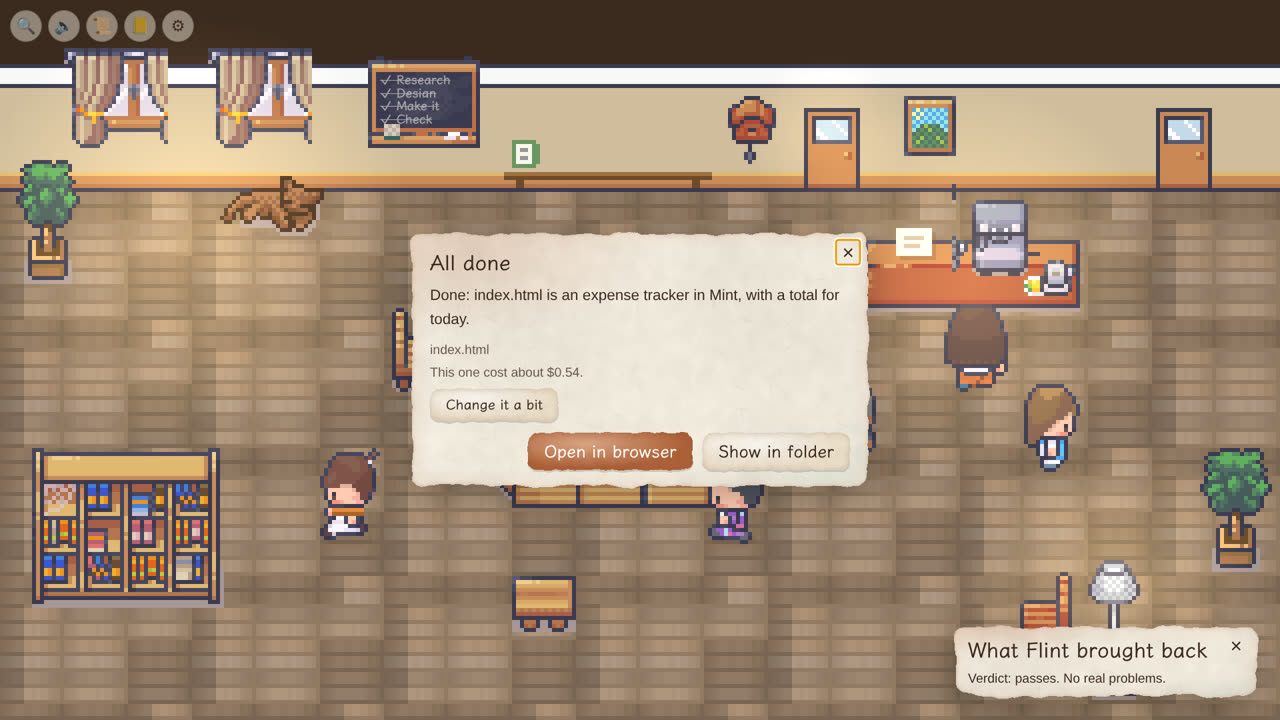
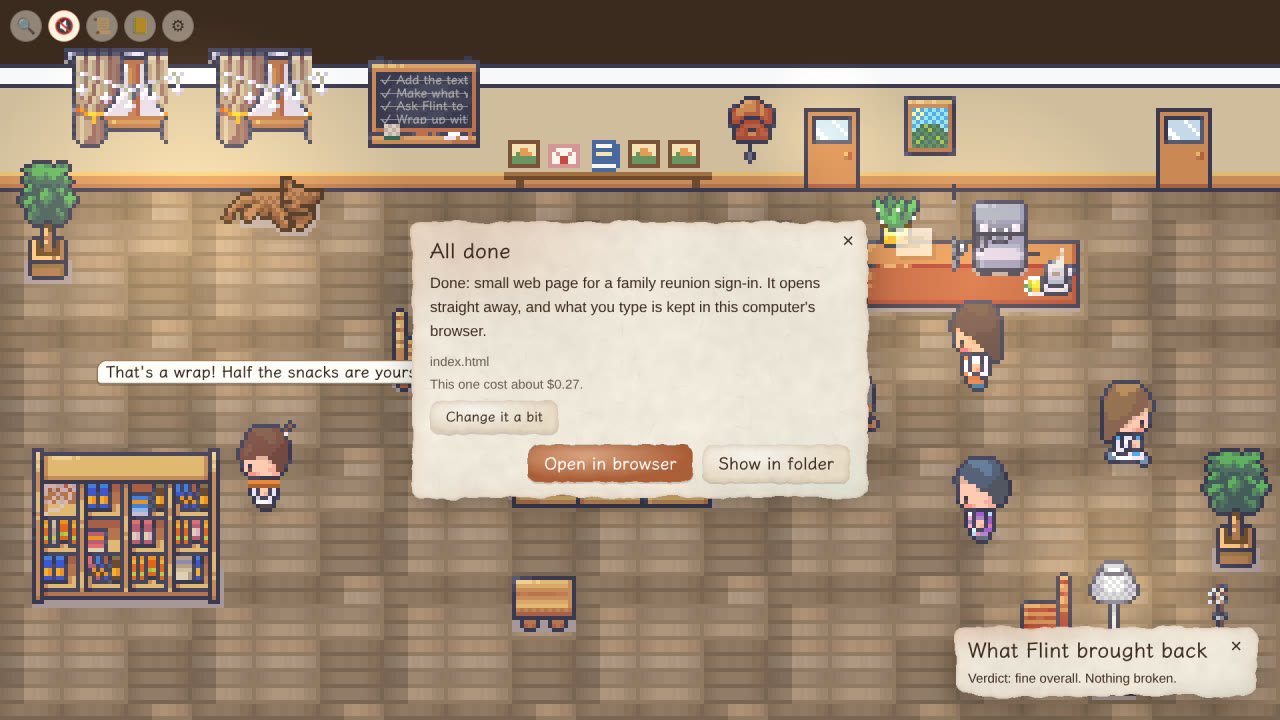
Site for 0.8.0: the plan on the blackboard, handing over files, furnishing, eight templates
New sections for the real plan on the blackboard, handing files to the shop and furnishing the
café and the study; the list of things to ask for now has all eight templates; every screenshot
is retaken from the latest build.

The pages are now generated: build.mjs writes them from content/*.json and the app's own legal
texts (node build.mjs --app <app repository>). The privacy note and terms come out unchanged.

diff --git a/index.html b/index.html
@@ -19,6 +19,6 @@ footer{border-top:1px solid var(--line);padding:22px 0 40px;color:var(--soft);fo
 <main class="wrap"><section class="hero"><h1>Lamplight Nook</h1><p>A cozy pixel shop where a small team does computer jobs for you, powered by Claude.</p><span class="buy soon">Coming soon to Microsoft Store</span><span class="price">US$9.99, one-time. Windows 10/11.</span></section>
 <img class="shot" src="img/en-05-result.jpg" alt="">
 <p class="intro">Hand a commission slip to the counter and the staff get to work. Wick plans the job, Clem runs out to look things up, Iris settles the colours and layout, Flint checks everything before it leaves the shop, and Chestnut the cat supervises. Behind the pixels it is Claude Code, Anthropic's AI agent, working in a folder on your PC, and every step shows up as life in the shop.</p>
-<section class="feats"><div class="feat"><img class="shot" src="img/en-01-order.jpg" alt=""><h3>Ask for real things</h3><p>A small web page, a researched summary, an edited copy of a document, a plan for a messy folder.</p></div><div class="feat"><img class="shot" src="img/en-02-work-5.jpg" alt=""><h3>Watch them work</h3><p>Errands, chalkboard notes and checks instead of logs.</p></div><div class="feat"><img class="shot" src="img/en-04-question.jpg" alt=""><h3>You stay in charge</h3><p>Wick asks before choices; risky steps wait for your OK. Ring the bell to add a request mid-job.</p></div><div class="feat"><img class="shot" src="img/en-06-notebook.jpg" alt=""><h3>It remembers you</h3><p>Past jobs, your choices and the snags you hit, kept only on your PC.</p></div><div class="feat"><img class="shot" src="img/en-07-garden.jpg" alt=""><h3>A shop that lives</h3><p>Weather and seasons from the calendar, holiday decorations, a back garden with Malt the dog and the hens, neighbours who drop in, and a look of your own.</p></div><div class="feat"><img class="shot" src="img/en-08-shelf.jpg" alt=""><h3>Change it again</h3><p>Finished work goes on the works shelf. Ask for another round any time; the last version is kept in case you want it back. The shop picks up a little more as the jobs add up.</p></div><div class="feat"><img class="shot" src="img/en-09-study.jpg" alt=""><h3>A study at home</h3><p>Prefer something quieter? Move the shop into a study with a sofa, a globe and a reading lamp. Everything you have gathered comes along.</p></div><div class="feat"><img class="shot" src="img/en-10-mini.jpg" alt=""><h3>Out of sight, still in touch</h3><p>Minimise the shop and a small window in the corner shows who is working and what on, and calls you when a question is waiting.</p></div></section>
+<section class="feats"><div class="feat"><img class="shot" src="img/en-01-order.jpg" alt=""><h3>Ask for real things</h3><p>A small web page, a researched summary, an edited copy of a document, a plan for a messy folder, a letter, a table, a plan for the weeks ahead, or an album of your photos.</p></div><div class="feat"><img class="shot" src="img/en-02-board.jpg" alt=""><h3>See how far along it is</h3><p>Wick chalks the real to-do list on the blackboard and ticks it off as the work goes, so you can tell at a glance what is done and how much is left.</p></div><div class="feat"><img class="shot" src="img/en-03-materials.jpg" alt=""><h3>Hand things over</h3><p>A screenshot, a spreadsheet, a draft to fix: drop it on the counter and Wick has it. The staff work on copies; your originals stay as they are.</p></div><div class="feat"><img class="shot" src="img/en-04-question.jpg" alt=""><h3>You stay in charge</h3><p>Wick asks before choices; risky steps wait for your OK. Ring the bell to add a request mid-job.</p></div><div class="feat"><img class="shot" src="img/en-06-notebook.jpg" alt=""><h3>It remembers you</h3><p>Past jobs, your choices and the snags you hit, kept only on your PC.</p></div><div class="feat"><img class="shot" src="img/en-07-garden.jpg" alt=""><h3>A shop that lives</h3><p>Weather and seasons from the calendar, holiday decorations, a back garden with Malt the dog and the hens, neighbours who drop in, and a look of your own.</p></div><div class="feat"><img class="shot" src="img/en-08-shelf.jpg" alt=""><h3>Change it again</h3><p>Finished work goes on the works shelf. Ask for another round any time; the last version is kept in case you want it back. The shop picks up a little more as the jobs add up.</p></div><div class="feat"><img class="shot" src="img/en-11-furnish.jpg" alt=""><h3>Make it yours</h3><p>Pick a wall colour, curtains and a rug. The café and the study each keep their own.</p></div><div class="feat"><img class="shot" src="img/en-09-study.jpg" alt=""><h3>A study at home</h3><p>Prefer something quieter? Move the shop into a study with a sofa, a globe and a reading lamp. Everything you have gathered comes along.</p></div><div class="feat"><img class="shot" src="img/en-10-mini.jpg" alt=""><h3>Out of sight, still in touch</h3><p>Minimise the shop and a small window in the corner shows who is working, which item of the plan is under way, and calls you when a question is waiting.</p></div></section>
 <section class="need"><h2>What you need</h2><ul><li>Claude Code on your PC (free; the app walks you through installing it).</li><li>Your own Anthropic API key. You pay Anthropic for what the staff use, usually well under a dollar for a small job. Every job shows its cost, and you can set a cap.</li><li>No account, no subscription, no telemetry. Not available where Anthropic does not offer its API, including mainland China and Hong Kong.</li></ul></section></main>
 <footer><div class="wrap"><a href="privacy.html">Privacy</a><a href="terms.html">Terms of use</a><a href="mailto:24kplo@gmail.com">Support</a><p>Pixel art by LimeZu. Music by Alex Morgan (CC BY 4.0). Claude is a trademark of Anthropic.</p></div></footer></body></html>

diff --git a/zh.html b/zh.html
@@ -19,6 +19,6 @@ footer{border-top:1px solid var(--line);padding:22px 0 40px;color:var(--soft);fo
 <main class="wrap"><section class="hero"><h1>小灯屋</h1><p>一间温馨的像素小店，店员们用 Claude 帮你把电脑上的活儿做好。</p><span class="buy soon">即将上架 Microsoft Store</span><span class="price">9.99 美元买断，Windows 10/11。</span></section>
 <img class="shot" src="img/zh-05-result.jpg" alt="">
 <p class="intro">在柜台递一张委托单，店员们就开工了。阿灯接单定计划，小橘跑腿查资料，青黛先定配色和布局，老石在成品出店前把关，店猫栗子负责监工。像素背后是 Anthropic 的 AI 代理 Claude Code，它在你电脑上的一个文件夹里干活，每一步都变成店里的日常。</p>
-<section class="feats"><div class="feat"><img class="shot" src="img/zh-01-order.jpg" alt=""><h3>委托真正的事</h3><p>做个小网页、查资料写总结、改一份文档的复制件、给乱糟糟的文件夹出整理方案。</p></div><div class="feat"><img class="shot" src="img/zh-02-work-5.jpg" alt=""><h3>看着他们忙</h3><p>跑腿、黑板和检查，代替一行行日志。</p></div><div class="feat"><img class="shot" src="img/zh-04-question.jpg" alt=""><h3>做主的是你</h3><p>要选的地方阿灯会来问；有风险的一步等你点头。中途摇铃就能加要求。</p></div><div class="feat"><img class="shot" src="img/zh-06-notebook.jpg" alt=""><h3>小店记得你</h3><p>做过的事、你的选择、踩过的坑，只存在你的电脑上。</p></div><div class="feat"><img class="shot" src="img/zh-07-garden.jpg" alt=""><h3>小店有日子</h3><p>天气和季节跟着日历走，节日会挂装饰；后院有狗麦芽和几只母鸡，街坊会来串门，你也能挑一个自己的样子。</p></div><div class="feat"><img class="shot" src="img/zh-08-shelf.jpg" alt=""><h3>还能接着改</h3><p>做好的东西摆上作品架，随时可以再改一回，上一版留着，想换回来就换回来。单子做得越多，店里添的东西越多。</p></div><div class="feat"><img class="shot" src="img/zh-09-study.jpg" alt=""><h3>家里的小书房</h3><p>想要安静点？把店搬进有沙发、地球仪和台灯的小书房，攒下的东西都跟着搬过去。</p></div><div class="feat"><img class="shot" src="img/zh-10-mini.jpg" alt=""><h3>不看也知道</h3><p>把小店最小化，角落里会留一个小窗，看得到谁在忙、忙什么，有问题等你回答时会叫你。</p></div></section>
+<section class="feats"><div class="feat"><img class="shot" src="img/zh-01-order.jpg" alt=""><h3>委托真正的事</h3><p>做个小网页、查资料写总结、改一份文档的复制件、给乱糟糟的文件夹出整理方案，还能写封信、做个表格、排个计划，或者用你的照片做一本相册。</p></div><div class="feat"><img class="shot" src="img/zh-02-board.jpg" alt=""><h3>看得懂做到哪了</h3><p>阿灯把真正的待办清单写上黑板，做完一件划掉一件，做到哪、还剩几件，一眼就知道。</p></div><div class="feat"><img class="shot" src="img/zh-03-materials.jpg" alt=""><h3>把材料递过来</h3><p>一张截图、一份表格、一篇要改的稿子，拖到柜台上就递给了阿灯。店员用的是复制件，原件不动。</p></div><div class="feat"><img class="shot" src="img/zh-04-question.jpg" alt=""><h3>做主的是你</h3><p>要选的地方阿灯会来问；有风险的一步等你点头。中途摇铃就能加要求。</p></div><div class="feat"><img class="shot" src="img/zh-06-notebook.jpg" alt=""><h3>小店记得你</h3><p>做过的事、你的选择、踩过的坑，只存在你的电脑上。</p></div><div class="feat"><img class="shot" src="img/zh-07-garden.jpg" alt=""><h3>小店有日子</h3><p>天气和季节跟着日历走，节日会挂装饰；后院有狗麦芽和几只母鸡，街坊会来串门，你也能挑一个自己的样子。</p></div><div class="feat"><img class="shot" src="img/zh-08-shelf.jpg" alt=""><h3>还能接着改</h3><p>做好的东西摆上作品架，随时可以再改一回，上一版留着，想换回来就换回来。单子做得越多，店里添的东西越多。</p></div><div class="feat"><img class="shot" src="img/zh-11-furnish.jpg" alt=""><h3>按你的喜好布置</h3><p>墙面、窗帘、地毯各有几种颜色可挑，咖啡厅和书房各记各的。</p></div><div class="feat"><img class="shot" src="img/zh-09-study.jpg" alt=""><h3>家里的小书房</h3><p>想要安静点？把店搬进有沙发、地球仪和台灯的小书房，攒下的东西都跟着搬过去。</p></div><div class="feat"><img class="shot" src="img/zh-10-mini.jpg" alt=""><h3>不看也知道</h3><p>把小店最小化，角落里会留一个小窗，看得到谁在忙、做到计划的第几件，有问题等你回答时会叫你。</p></div></section>
 <section class="need"><h2>你需要</h2><ul><li>电脑上装好 Claude Code（免费，应用里会带你装）。</li><li>你自己的 Anthropic API Key。店员用多少，你直接付给 Anthropic，小活儿一般不到 1 美元；每单花费都看得到，还能设上限。</li><li>不用注册、不订阅、不收集使用数据。Anthropic 不提供 API 的地区用不了，包括中国大陆和香港。</li></ul></section></main>
 <footer><div class="wrap"><a href="privacy-zh.html">隐私说明</a><a href="terms-zh.html">用户协议</a><a href="mailto:24kplo@gmail.com">联系我们</a><p>像素美术 LimeZu，音乐 Alex Morgan（CC BY 4.0）。Claude 是 Anthropic 的商标。</p></div></footer></body></html>

diff --git a/content/style.css b/content/style.css
@@ -1,0 +1,15 @@
+:root{--paper:#f6efe3;--card:#fffaf1;--ink:#3b2a20;--soft:#7a6555;--accent:#c0673a;--line:#e3d5c1;--night:#2a1f1a}
+@media (prefers-color-scheme:dark){:root{--paper:#221a15;--card:#2c221c;--ink:#f1e6d6;--soft:#c2ae99;--accent:#e08a5a;--line:#4a3a2f}}
+*{box-sizing:border-box}body{margin:0;background:var(--paper);color:var(--ink);font:17px/1.6 system-ui,-apple-system,"Segoe UI","Microsoft YaHei",sans-serif}
+a{color:var(--accent)}.wrap{max-width:1040px;margin:0 auto;padding:0 20px}
+header{background:var(--night);color:#f6efe3}header .wrap{display:flex;align-items:center;gap:14px;padding:14px 20px}header img{width:44px;height:44px;image-rendering:pixelated}
+header b{font-size:20px}header nav{margin-left:auto}header a{color:#f3c9a5}
+.hero{padding:48px 0 24px;text-align:center}.hero h1{font-size:clamp(28px,5vw,44px);margin:0 0 8px}.hero p{color:var(--soft);margin:0 auto 22px;max-width:640px}
+.soon{opacity:.85}.buy{display:inline-block;background:var(--accent);color:#fff;text-decoration:none;padding:12px 22px;border-radius:10px;font-weight:600}.price{display:block;margin-top:10px;color:var(--soft);font-size:15px}
+.shot{width:100%;border-radius:12px;border:1px solid var(--line);display:block;image-rendering:pixelated}
+.intro{max-width:720px;margin:28px auto 8px;text-align:center}
+.feats{display:grid;grid-template-columns:repeat(auto-fit,minmax(min(100%,440px),1fr));gap:22px;margin:30px 0}
+.feat{background:var(--card);border:1px solid var(--line);border-radius:14px;padding:14px}.feat h3{margin:12px 4px 4px}.feat p{margin:0 4px 6px;color:var(--soft)}
+.need{background:var(--card);border:1px solid var(--line);border-radius:14px;padding:6px 24px;margin:10px 0 36px}.need li{margin:8px 0}
+footer{border-top:1px solid var(--line);padding:22px 0 40px;color:var(--soft);font-size:15px}footer a{margin-right:16px}
+.legal{max-width:760px;margin:0 auto;padding:30px 20px 60px}.legal h1{font-size:30px}.legal h2{font-size:21px;margin-top:28px}

diff --git a/README.md b/README.md
@@ -1,4 +1,15 @@
 # Lamplight Nook website
 
 The one-page site for Lamplight Nook, with its privacy note and terms of use, served by GitHub Pages.
-The pages are generated from the app's own text (locales) and screenshots; edit those and rebuild rather than editing the HTML here.
+The HTML is generated; edit the sources and rebuild rather than editing the pages here.
+
+- `content/en.json`, `content/zh.json`: the home page copy (hero, features, what you need, footer).
+- `content/style.css`: the shared stylesheet.
+- The privacy note and terms of use come from the app's own locales (`locales/<lang>.json`, `legal`),
+  so the site always says what the app says.
+- `img/<en|zh>-NN-name.jpg`: screenshots, made in the app's repository with `tools/sim/store.mjs`
+  (it writes them to `store-out/site/`).
+
+```bash
+node build.mjs --app ../lamplight-nook
+```
